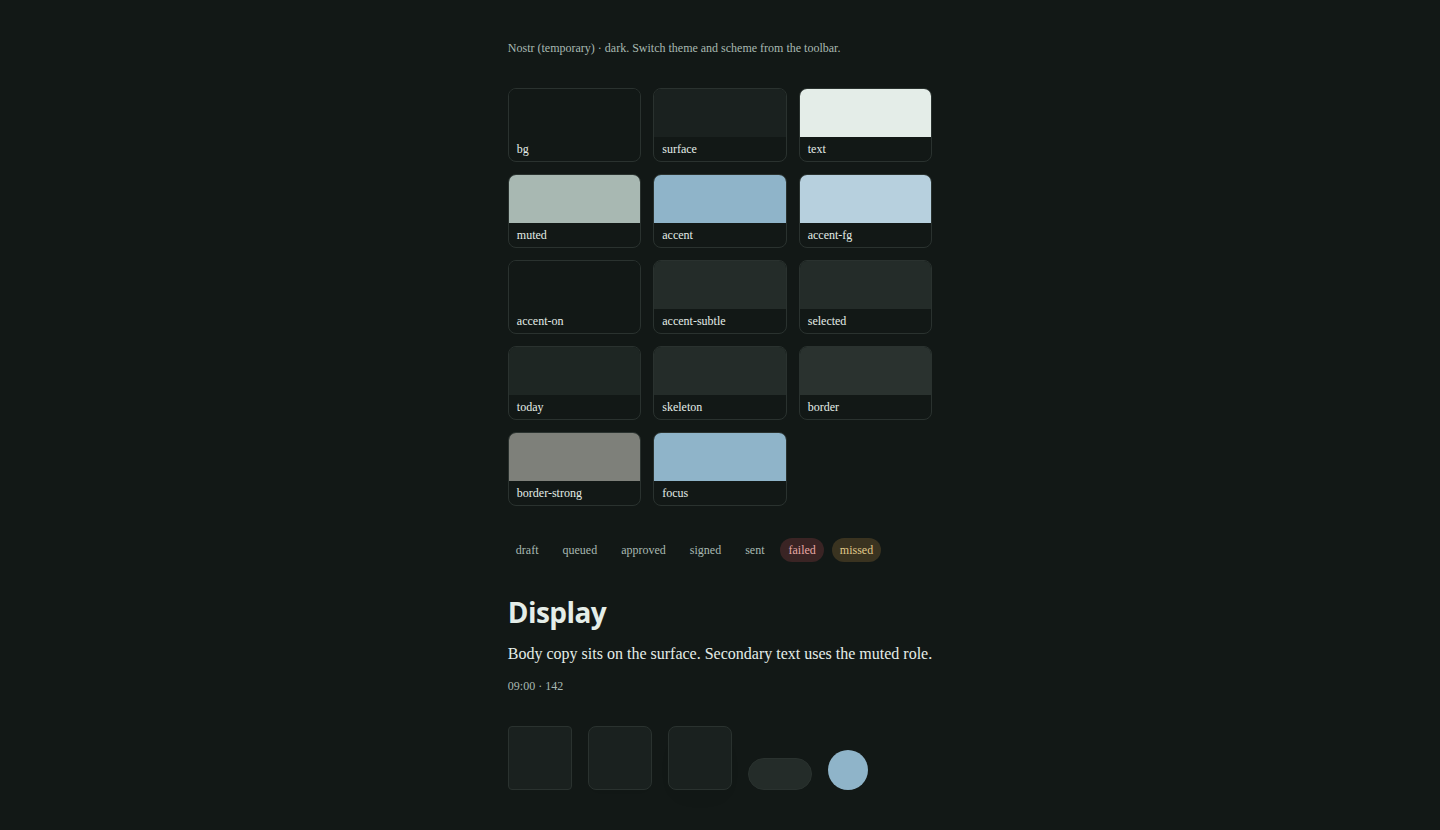
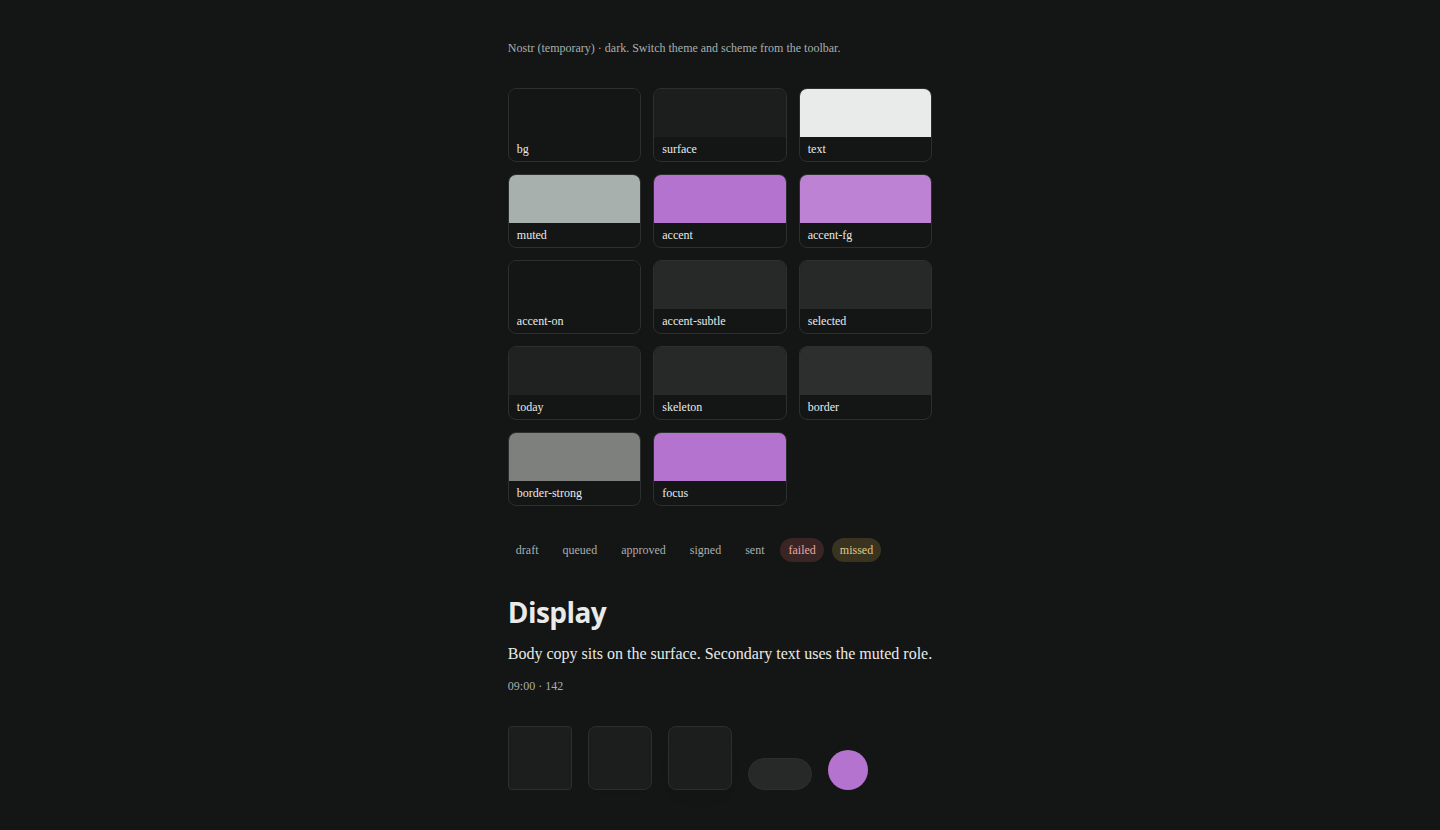
fix: set the nostr accent to purple on neutral paper
The colour tables use the new values. The prose still marks the accent as pending.

Changed region(s): [[0.4375, 0.2108, 0.6562, 0.2711], [0.4375, 0.512, 0.5625, 0.6024], [0.5625, 0.9036, 0.625, 0.9639]]

diff --git a/packages/themes/nostr/src/theme.css b/packages/themes/nostr/src/theme.css
@@ -1,4 +1,4 @@
-/* Barrel Green. Light is the default. Dark sets data-scheme="dark". */
+/* Nostr theme. Light is the default. Dark sets data-scheme="dark". */
 
 [data-theme="nostr"] {
   color-scheme: light;
@@ -11,31 +11,29 @@
   --radius-badge: 9999px;
   --radius-overlay: 8px;
   --radius-full: 9999px;
-  --color-bg: #e4e9e6;
-  --color-surface: #f2f5f3;
-  --color-text: #141a18;
-  --color-muted: #3c4c46;
-  /* temporary accent, pending choice */
-  --color-accent: #2c4a5e;
-  --color-accent-fg: #1e3646;
+  --color-bg: #e6e7e6;
+  --color-surface: #f3f4f3;
+  --color-text: #151616;
+  --color-muted: #404846;
+  --color-accent: #662482;
+  --color-accent-fg: #521c69;
   --color-accent-on: #ffffff;
-  --color-accent-subtle: #d8e0dc;
-  --color-selected: #d8e0dc;
-  --color-today: #eaf0ec;
-  --color-skeleton: #d8e0dc;
-  --color-border: #c5cdc8;
-  --color-border-strong: #68716a;
-  /* temporary accent, pending choice */
-  --color-focus: #2c4a5e;
-  --color-status-draft-fg: #3c4c46;
+  --color-accent-subtle: #dbdedc;
+  --color-selected: #dbdedc;
+  --color-today: #eceeec;
+  --color-skeleton: #dbdedc;
+  --color-border: #c8cbc9;
+  --color-border-strong: #6a6e6b;
+  --color-focus: #662482;
+  --color-status-draft-fg: #404846;
   --color-status-draft-bg: transparent;
-  --color-status-queued-fg: #3c4c46;
+  --color-status-queued-fg: #404846;
   --color-status-queued-bg: transparent;
-  --color-status-approved-fg: #3c4c46;
+  --color-status-approved-fg: #404846;
   --color-status-approved-bg: transparent;
-  --color-status-signed-fg: #3c4c46;
+  --color-status-signed-fg: #404846;
   --color-status-signed-bg: transparent;
-  --color-status-sent-fg: #3c4c46;
+  --color-status-sent-fg: #404846;
   --color-status-sent-bg: transparent;
   --color-status-failed-fg: #7a2428;
   --color-status-failed-bg: #f0d9d8;
@@ -45,31 +43,29 @@
 
 [data-theme="nostr"][data-scheme="dark"] {
   color-scheme: dark;
-  --color-bg: #121816;
-  --color-surface: #1a211f;
-  --color-text: #e4ede8;
-  --color-muted: #a8b8b2;
-  /* temporary accent, pending choice */
-  --color-accent: #8fb4c9;
-  --color-accent-fg: #b7d0de;
-  --color-accent-on: #121816;
-  --color-accent-subtle: #242c29;
-  --color-selected: #242c29;
-  --color-today: #1e2623;
-  --color-skeleton: #242c29;
-  --color-border: #2a322f;
-  --color-border-strong: #7e807a;
-  /* temporary accent, pending choice */
-  --color-focus: #8fb4c9;
-  --color-status-draft-fg: #a8b8b2;
+  --color-bg: #141515;
+  --color-surface: #1c1e1d;
+  --color-text: #e8ebe9;
+  --color-muted: #a8b0ad;
+  --color-accent: #b373ce;
+  --color-accent-fg: #be82d4;
+  --color-accent-on: #141515;
+  --color-accent-subtle: #262928;
+  --color-selected: #262928;
+  --color-today: #202221;
+  --color-skeleton: #262928;
+  --color-border: #2c2f2e;
+  --color-border-strong: #7e807e;
+  --color-focus: #b373ce;
+  --color-status-draft-fg: #a8b0ad;
   --color-status-draft-bg: transparent;
-  --color-status-queued-fg: #a8b8b2;
+  --color-status-queued-fg: #a8b0ad;
   --color-status-queued-bg: transparent;
-  --color-status-approved-fg: #a8b8b2;
+  --color-status-approved-fg: #a8b0ad;
   --color-status-approved-bg: transparent;
-  --color-status-signed-fg: #a8b8b2;
+  --color-status-signed-fg: #a8b0ad;
   --color-status-signed-bg: transparent;
-  --color-status-sent-fg: #a8b8b2;
+  --color-status-sent-fg: #a8b0ad;
   --color-status-sent-bg: transparent;
   --color-status-failed-fg: #e8a8a4;
   --color-status-failed-bg: #3a2424;

diff --git a/packages/themes/nostr/src/theme.test.ts b/packages/themes/nostr/src/theme.test.ts
@@ -75,33 +75,34 @@ const rules = ruleBodies(css);
 const light = declarations(rules.get('[data-theme="nostr"]') ?? "");
 const dark = declarations(rules.get('[data-theme="nostr"][data-scheme="dark"]') ?? "");
 
-const bookPairs: Array<[string, string, number]> = [
-  ["--color-text", "--color-bg", 7],
-  ["--color-text", "--color-surface", 7],
-  ["--color-text", "--color-selected", 7],
-  ["--color-text", "--color-today", 7],
-  ["--color-muted", "--color-bg", 7],
-  ["--color-muted", "--color-surface", 7],
+const aaPairs: Array<[string, string, number]> = [
+  ["--color-text", "--color-bg", 4.5],
+  ["--color-text", "--color-surface", 4.5],
+  ["--color-text", "--color-selected", 4.5],
+  ["--color-text", "--color-today", 4.5],
+  ["--color-muted", "--color-bg", 4.5],
+  ["--color-muted", "--color-surface", 4.5],
   ["--color-muted", "--color-selected", 4.5],
-  ["--color-muted", "--color-today", 7],
+  ["--color-muted", "--color-today", 4.5],
   ["--color-accent", "--color-bg", 4.5],
   ["--color-accent", "--color-surface", 4.5],
   ["--color-accent-fg", "--color-bg", 4.5],
   ["--color-accent-fg", "--color-surface", 4.5],
+  ["--color-accent-fg", "--color-selected", 4.5],
   ["--color-accent-on", "--color-accent", 4.5],
   ["--color-focus", "--color-bg", 3],
   ["--color-focus", "--color-surface", 3],
   ["--color-border-strong", "--color-bg", 3],
   ["--color-border-strong", "--color-surface", 3],
-  ["--color-status-failed-fg", "--color-status-failed-bg", 7],
-  ["--color-status-failed-fg", "--color-bg", 7],
-  ["--color-status-failed-fg", "--color-surface", 7],
-  ["--color-text", "--color-status-failed-bg", 7],
+  ["--color-status-failed-fg", "--color-status-failed-bg", 4.5],
+  ["--color-status-failed-fg", "--color-bg", 4.5],
+  ["--color-status-failed-fg", "--color-surface", 4.5],
+  ["--color-text", "--color-status-failed-bg", 4.5],
   ["--color-muted", "--color-status-failed-bg", 4.5],
-  ["--color-status-missed-fg", "--color-status-missed-bg", 7],
-  ["--color-status-missed-fg", "--color-bg", 7],
-  ["--color-status-missed-fg", "--color-surface", 7],
-  ["--color-text", "--color-status-missed-bg", 7],
+  ["--color-status-missed-fg", "--color-status-missed-bg", 4.5],
+  ["--color-status-missed-fg", "--color-bg", 4.5],
+  ["--color-status-missed-fg", "--color-surface", 4.5],
+  ["--color-text", "--color-status-missed-bg", 4.5],
   ["--color-muted", "--color-status-missed-bg", 4.5],
 ];
 
@@ -138,9 +139,9 @@ describe("nostr theme contract", () => {
     expect(dark.get("--color-skeleton")).toBe(dark.get("--color-selected"));
   });
 
-  it("meets the book's contrast pairs in both schemes", () => {
+  it("meets AA for the role pairs in both schemes", () => {
     for (const scheme of [light, dark]) {
-      for (const [foreground, background, minimum] of bookPairs) {
+      for (const [foreground, background, minimum] of aaPairs) {
         const ratio = contrast(scheme.get(foreground) ?? "", scheme.get(background) ?? "");
         expect(ratio, `${foreground} on ${background}`).toBeGreaterThanOrEqual(minimum);
       }

diff --git a/docs/brand/nostr/README.md b/docs/brand/nostr/README.md
@@ -76,18 +76,18 @@ Semantic names are the design-system contract. The theme only supplies values.
 
 | Semantic token     | CSS custom property        | Light (default) | Dark      | Role                                                               |
 | ------------------ | -------------------------- | --------------- | --------- | ------------------------------------------------------------------ |
-| `bg`               | `--color-bg`               | `#E4E9E6`       | `#121816` | Page paper / layout pad                                            |
-| `surface`          | `--color-surface`          | `#F2F5F3`       | `#1A211F` | A fresh sheet: fields, raised event blocks, selected rows          |
-| `text`             | `--color-text`             | `#141A18`       | `#E4EDE8` | Body and titles                                                    |
-| `muted`            | `--color-muted`            | `#3C4C46`       | `#A8B8B2` | Secondary text, times, hints, ordinary status words                |
-| `accent`           | `--color-accent`           | pending         | pending   | Primary fill, caret, focus ring, now line, sign-off rule, ink chop |
-| `accent-fg`        | `--color-accent-fg`        | pending         | pending   | Accent as small text, if a link must be accented                   |
-| `accent-on`        | `--color-accent-on`        | `#FFFFFF`       | `#121816` | Label on an accent fill                                            |
-| `selected`         | `--color-selected`         | `#D8E0DC`       | `#242C29` | “This row” wash; never an accent tint                              |
-| `today`            | `--color-today`            | `#EAF0EC`       | `#1E2623` | Today’s column in the week grid                                    |
-| `border`           | `--color-border`           | `#C5CDC8`       | `#2A322F` | Decorative hairlines, always paired with spacing                   |
-| `border-strong`    | `--color-border-strong`    | `#68716A`       | `#7E807A` | Inputs and outlined controls (3:1 against `bg` and `surface`)      |
-| `focus`            | `--color-focus`            | pending         | pending   | Focus ring                                                         |
+| `bg`               | `--color-bg`               | `#E6E7E6`       | `#141515` | Page paper / layout pad                                            |
+| `surface`          | `--color-surface`          | `#F3F4F3`       | `#1C1E1D` | A fresh sheet: fields, raised event blocks, selected rows          |
+| `text`             | `--color-text`             | `#151616`       | `#E8EBE9` | Body and titles                                                    |
+| `muted`            | `--color-muted`            | `#404846`       | `#A8B0AD` | Secondary text, times, hints, ordinary status words                |
+| `accent`           | `--color-accent`           | `#662482`       | `#B373CE` | Primary fill, caret, focus ring, now line, sign-off rule, ink chop |
+| `accent-fg`        | `--color-accent-fg`        | `#521C69`       | `#BE82D4` | Accent as small text, if a link must be accented                   |
+| `accent-on`        | `--color-accent-on`        | `#FFFFFF`       | `#141515` | Label on an accent fill                                            |
+| `selected`         | `--color-selected`         | `#DBDEDC`       | `#262928` | “This row” wash; never an accent tint                              |
+| `today`            | `--color-today`            | `#ECEEEC`       | `#202221` | Today’s column in the week grid                                    |
+| `border`           | `--color-border`           | `#C8CBC9`       | `#2C2F2E` | Decorative hairlines, always paired with spacing                   |
+| `border-strong`    | `--color-border-strong`    | `#6A6E6B`       | `#7E807E` | Inputs and outlined controls (3:1 against `bg` and `surface`)      |
+| `focus`            | `--color-focus`            | `#662482`       | `#B373CE` | Focus ring                                                         |
 | `status.failed.fg` | `--color-status-failed-fg` | `#7A2428`       | `#E8A8A4` | Failed label and error text                                        |
 | `status.failed.bg` | `--color-status-failed-bg` | `#F0D9D8`       | `#3A2424` | Failed capsule wash                                                |
 | `status.missed.fg` | `--color-status-missed-fg` | `#5C4010`       | `#E0C98A` | Missed label                                                       |
@@ -109,65 +109,65 @@ Ratios use WCAG 2 relative luminance. **AAA** is 7:1 for normal text. **AA** is 
 
 | Pair                       | Foreground | Background |   Ratio | Result  |
 | -------------------------- | ---------- | ---------- | ------: | ------- |
-| text / bg                  | `#141A18`  | `#E4E9E6`  | 14.36:1 | AAA     |
-| text / surface             | `#141A18`  | `#F2F5F3`  | 16.07:1 | AAA     |
-| text / selected            | `#141A18`  | `#D8E0DC`  | 13.11:1 | AAA     |
-| text / today               | `#141A18`  | `#EAF0EC`  | 15.26:1 | AAA     |
-| muted / bg                 | `#3C4C46`  | `#E4E9E6`  |  7.39:1 | AAA     |
-| muted / surface            | `#3C4C46`  | `#F2F5F3`  |  8.27:1 | AAA     |
-| muted / selected           | `#3C4C46`  | `#D8E0DC`  |  6.75:1 | AA      |
-| muted / today              | `#3C4C46`  | `#EAF0EC`  |  7.85:1 | AAA     |
-| accent / bg                | pending    | `#E4E9E6`  | pending | pending |
-| accent / surface           | pending    | `#F2F5F3`  | pending | pending |
-| accent-fg / bg             | pending    | `#E4E9E6`  | pending | pending |
-| accent-fg / surface        | pending    | `#F2F5F3`  | pending | pending |
-| accent-on / accent         | `#FFFFFF`  | pending    | pending | pending |
-| focus / bg                 | pending    | `#E4E9E6`  | pending | pending |
-| focus / surface            | pending    | `#F2F5F3`  | pending | pending |
-| border-strong / bg         | `#68716A`  | `#E4E9E6`  |  4.11:1 | AA (UI) |
-| border-strong / surface    | `#68716A`  | `#F2F5F3`  |  4.60:1 | AA (UI) |
+| text / bg                  | `#151616`  | `#E6E7E6`  | 14.62:1 | AAA     |
+| text / surface             | `#151616`  | `#F3F4F3`  | 16.44:1 | AAA     |
+| text / selected            | `#151616`  | `#DBDEDC`  | 13.38:1 | AAA     |
+| text / today               | `#151616`  | `#ECEEEC`  | 15.55:1 | AAA     |
+| muted / bg                 | `#404846`  | `#E6E7E6`  |  7.58:1 | AAA     |
+| muted / surface            | `#404846`  | `#F3F4F3`  |  8.53:1 | AAA     |
+| muted / selected           | `#404846`  | `#DBDEDC`  |  6.94:1 | AA      |
+| muted / today              | `#404846`  | `#ECEEEC`  |  8.06:1 | AAA     |
+| accent / bg                | `#662482`  | `#E6E7E6`  |  7.92:1 | AAA     |
+| accent / surface           | `#662482`  | `#F3F4F3`  |  8.90:1 | AAA     |
+| accent-fg / bg             | `#521C69`  | `#E6E7E6`  |  9.80:1 | AAA     |
+| accent-fg / surface        | `#521C69`  | `#F3F4F3`  | 11.02:1 | AAA     |
+| accent-on / accent         | `#FFFFFF`  | `#662482`  |  9.81:1 | AAA     |
+| focus / bg                 | `#662482`  | `#E6E7E6`  |  7.92:1 | AA (UI) |
+| focus / surface            | `#662482`  | `#F3F4F3`  |  8.90:1 | AA (UI) |
+| border-strong / bg         | `#6A6E6B`  | `#E6E7E6`  |  4.18:1 | AA (UI) |
+| border-strong / surface    | `#6A6E6B`  | `#F3F4F3`  |  4.70:1 | AA (UI) |
 | status.failed fg / badge   | `#7A2428`  | `#F0D9D8`  |  7.40:1 | AAA     |
-| status.failed fg / bg      | `#7A2428`  | `#E4E9E6`  |  8.10:1 | AAA     |
-| status.failed fg / surface | `#7A2428`  | `#F2F5F3`  |  9.06:1 | AAA     |
-| text / status.failed bg    | `#141A18`  | `#F0D9D8`  | 13.12:1 | AAA     |
-| muted / status.failed bg   | `#3C4C46`  | `#F0D9D8`  |  6.75:1 | AA      |
+| status.failed fg / bg      | `#7A2428`  | `#E6E7E6`  |  8.03:1 | AAA     |
+| status.failed fg / surface | `#7A2428`  | `#F3F4F3`  |  9.02:1 | AAA     |
+| text / status.failed bg    | `#151616`  | `#F0D9D8`  | 13.49:1 | AAA     |
+| muted / status.failed bg   | `#404846`  | `#F0D9D8`  |  6.99:1 | AA      |
 | status.missed fg / badge   | `#5C4010`  | `#EDE3C8`  |  7.48:1 | AAA     |
-| status.missed fg / bg      | `#5C4010`  | `#E4E9E6`  |  7.79:1 | AAA     |
-| status.missed fg / surface | `#5C4010`  | `#F2F5F3`  |  8.71:1 | AAA     |
-| text / status.missed bg    | `#141A18`  | `#EDE3C8`  | 13.79:1 | AAA     |
-| muted / status.missed bg   | `#3C4C46`  | `#EDE3C8`  |  7.10:1 | AAA     |
+| status.missed fg / bg      | `#5C4010`  | `#E6E7E6`  |  7.71:1 | AAA     |
+| status.missed fg / surface | `#5C4010`  | `#F3F4F3`  |  8.67:1 | AAA     |
+| text / status.missed bg    | `#151616`  | `#EDE3C8`  | 14.18:1 | AAA     |
+| muted / status.missed bg   | `#404846`  | `#EDE3C8`  |  7.35:1 | AAA     |
 
 #### Dark
 
 | Pair                       | Foreground | Background |   Ratio | Result  |
 | -------------------------- | ---------- | ---------- | ------: | ------- |
-| text / bg                  | `#E4EDE8`  | `#121816`  | 15.05:1 | AAA     |
-| text / surface             | `#E4EDE8`  | `#1A211F`  | 13.72:1 | AAA     |
-| text / selected            | `#E4EDE8`  | `#242C29`  | 11.98:1 | AAA     |
-| text / today               | `#E4EDE8`  | `#1E2623`  | 12.96:1 | AAA     |
-| muted / bg                 | `#A8B8B2`  | `#121816`  |  8.70:1 | AAA     |
-| muted / surface            | `#A8B8B2`  | `#1A211F`  |  7.93:1 | AAA     |
-| muted / selected           | `#A8B8B2`  | `#242C29`  |  6.93:1 | AA      |
-| muted / today              | `#A8B8B2`  | `#1E2623`  |  7.49:1 | AAA     |
-| accent / bg                | pending    | `#121816`  | pending | pending |
-| accent / surface           | pending    | `#1A211F`  | pending | pending |
-| accent-fg / bg             | pending    | `#121816`  | pending | pending |
-| accent-fg / surface        | pending    | `#1A211F`  | pending | pending |
-| accent-on / accent         | `#121816`  | pending    | pending | pending |
-| focus / bg                 | pending    | `#121816`  | pending | pending |
-| focus / surface            | pending    | `#1A211F`  | pending | pending |
-| border-strong / bg         | `#7E807A`  | `#121816`  |  4.50:1 | AA (UI) |
-| border-strong / surface    | `#7E807A`  | `#1A211F`  |  4.10:1 | AA (UI) |
+| text / bg                  | `#E8EBE9`  | `#141515`  | 15.24:1 | AAA     |
+| text / surface             | `#E8EBE9`  | `#1C1E1D`  | 13.96:1 | AAA     |
+| text / selected            | `#E8EBE9`  | `#262928`  | 12.23:1 | AAA     |
+| text / today               | `#E8EBE9`  | `#202221`  | 13.33:1 | AAA     |
+| muted / bg                 | `#A8B0AD`  | `#141515`  |  8.26:1 | AAA     |
+| muted / surface            | `#A8B0AD`  | `#1C1E1D`  |  7.57:1 | AAA     |
+| muted / selected           | `#A8B0AD`  | `#262928`  |  6.63:1 | AA      |
+| muted / today              | `#A8B0AD`  | `#202221`  |  7.22:1 | AAA     |
+| accent / bg                | `#B373CE`  | `#141515`  |  5.45:1 | AA      |
+| accent / surface           | `#B373CE`  | `#1C1E1D`  |  5.00:1 | AA      |
+| accent-fg / bg             | `#BE82D4`  | `#141515`  |  6.39:1 | AA      |
+| accent-fg / surface        | `#BE82D4`  | `#1C1E1D`  |  5.85:1 | AA      |
+| accent-on / accent         | `#141515`  | `#B373CE`  |  5.45:1 | AA      |
+| focus / bg                 | `#B373CE`  | `#141515`  |  5.45:1 | AA (UI) |
+| focus / surface            | `#B373CE`  | `#1C1E1D`  |  5.00:1 | AA (UI) |
+| border-strong / bg         | `#7E807E`  | `#141515`  |  4.60:1 | AA (UI) |
+| border-strong / surface    | `#7E807E`  | `#1C1E1D`  |  4.21:1 | AA (UI) |
 | status.failed fg / badge   | `#E8A8A4`  | `#3A2424`  |  7.25:1 | AAA     |
-| status.failed fg / bg      | `#E8A8A4`  | `#121816`  |  9.05:1 | AAA     |
-| status.failed fg / surface | `#E8A8A4`  | `#1A211F`  |  8.25:1 | AAA     |
-| text / status.failed bg    | `#E4EDE8`  | `#3A2424`  | 12.06:1 | AAA     |
-| muted / status.failed bg   | `#A8B8B2`  | `#3A2424`  |  6.97:1 | AA      |
+| status.failed fg / bg      | `#E8A8A4`  | `#141515`  |  9.21:1 | AAA     |
+| status.failed fg / surface | `#E8A8A4`  | `#1C1E1D`  |  8.44:1 | AAA     |
+| text / status.failed bg    | `#E8EBE9`  | `#3A2424`  | 12.00:1 | AAA     |
+| muted / status.failed bg   | `#A8B0AD`  | `#3A2424`  |  6.50:1 | AA      |
 | status.missed fg / badge   | `#E0C98A`  | `#3A3320`  |  7.70:1 | AAA     |
-| status.missed fg / bg      | `#E0C98A`  | `#121816`  | 11.04:1 | AAA     |
-| status.missed fg / surface | `#E0C98A`  | `#1A211F`  | 10.06:1 | AAA     |
-| text / status.missed bg    | `#E4EDE8`  | `#3A3320`  | 10.50:1 | AAA     |
-| muted / status.missed bg   | `#A8B8B2`  | `#3A3320`  |  6.07:1 | AA      |
+| status.missed fg / bg      | `#E0C98A`  | `#141515`  | 11.23:1 | AAA     |
+| status.missed fg / surface | `#E0C98A`  | `#1C1E1D`  | 10.29:1 | AAA     |
+| text / status.missed bg    | `#E8EBE9`  | `#3A3320`  | 10.45:1 | AAA     |
+| muted / status.missed bg   | `#A8B0AD`  | `#3A3320`  |  5.66:1 | AA      |
 
 Use `accent` or `accent-fg` for any small accent text on `bg` and `surface`. Error text uses `status.failed.fg`, which meets AAA on `bg` and `surface` in both themes.
 
